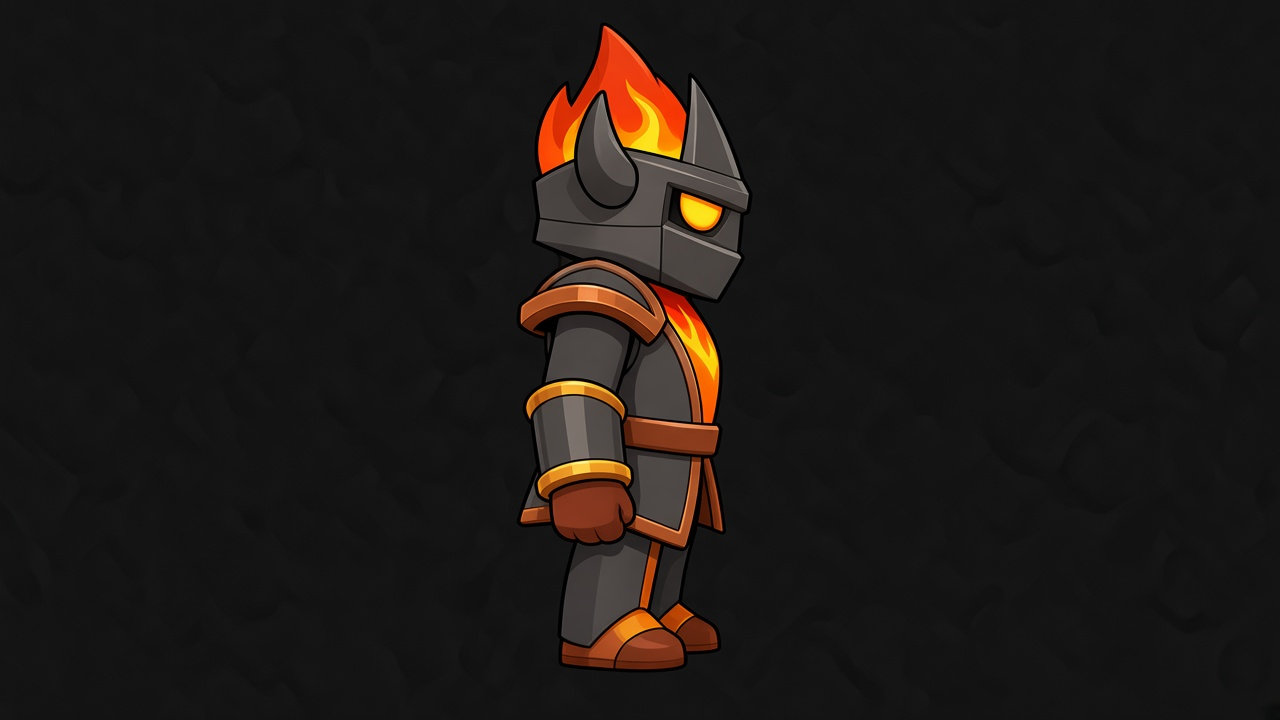
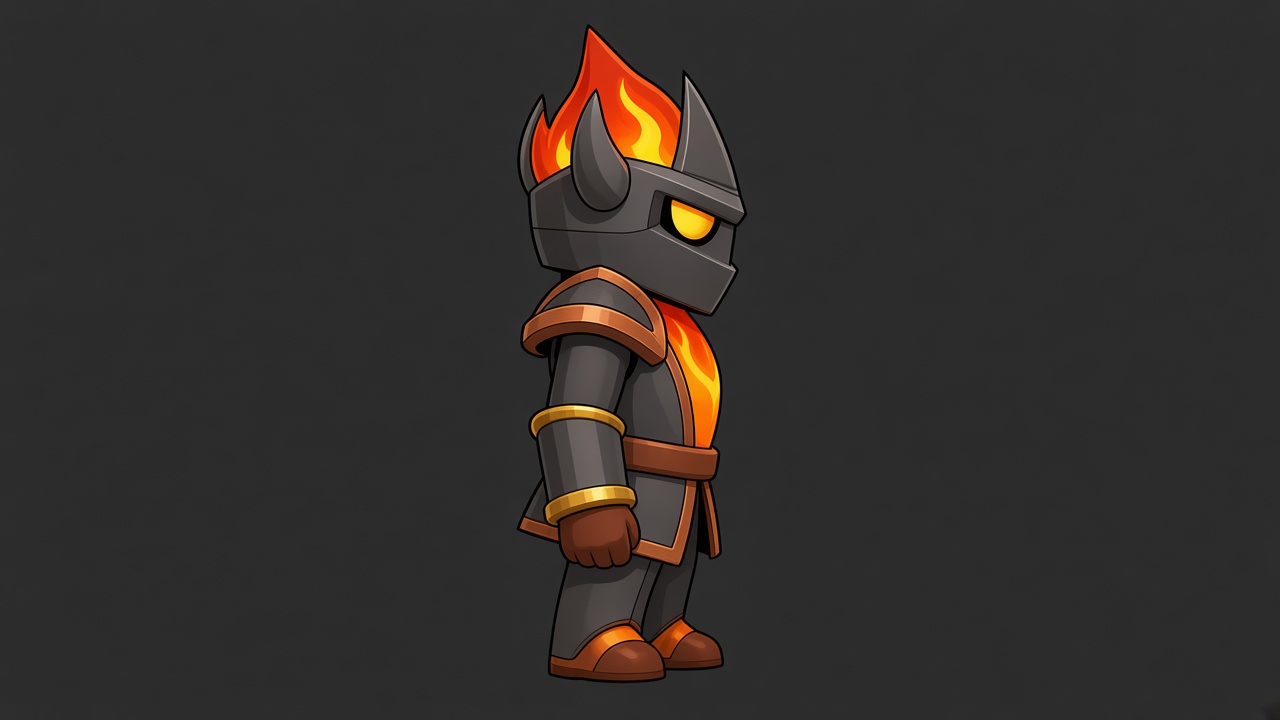
Lava Knight 2D v2: better sprites, run cycle, snappier controls

diff --git a/lava2d.html b/lava2d.html
@@ -2,49 +2,53 @@
 <html lang="en">
 <head>
 <meta charset="utf-8"/>
-<meta name="viewport" content="width=device-width,initial-scale=1,maximum-scale=1,user-scalable=no"/>
+<meta name="viewport" content="width=device-width,initial-scale=1,maximum-scale=1,user-scalable=no,viewport-fit=cover"/>
 <title>Lava Knight 2D</title>
 <style>
-  html,body{margin:0;height:100%;background:#0b0c10;color:#f2efe8;font-family:system-ui,-apple-system,sans-serif;overflow:hidden;touch-action:none}
-  #wrap{display:flex;flex-direction:column;height:100%}
-  header{padding:10px 12px;display:flex;justify-content:space-between;align-items:center;gap:8px;flex-wrap:wrap}
-  h1{margin:0;font-size:1rem}
-  .hint{color:#9aa3b2;font-size:.8rem}
-  canvas{display:block;width:100%;flex:1;background:linear-gradient(#1a2233,#0b0c10);touch-action:none}
-  #pad{display:grid;grid-template-columns:1fr 1fr 1fr;gap:8px;padding:10px 12px 16px;max-width:520px;margin:0 auto;width:100%}
-  button{appearance:none;border:1px solid #3a4558;background:#1c2433;color:#fff;border-radius:14px;padding:16px 10px;font:inherit;font-weight:650}
-  button:active{background:#2a3548}
-  #atk{background:#7c2d12;border-color:#fb923c}
+  html,body{margin:0;height:100%;background:#07080c;color:#f4f0e8;font-family:system-ui,-apple-system,sans-serif;overflow:hidden;touch-action:none;-webkit-user-select:none;user-select:none}
+  #wrap{display:flex;flex-direction:column;height:100%;height:100dvh}
+  header{padding:10px 14px 6px;display:flex;justify-content:space-between;align-items:baseline;gap:8px;flex-wrap:wrap}
+  h1{margin:0;font-size:1.05rem;font-weight:750}
+  .hint{color:#8b93a7;font-size:.78rem}
+  canvas{display:block;width:100%;flex:1;min-height:180px;touch-action:none;background:#0c1018}
+  #pad{display:grid;grid-template-columns:1fr 1.1fr 1fr;gap:10px;padding:10px 14px calc(14px + env(safe-area-inset-bottom));max-width:480px;margin:0 auto;width:100%}
+  button{appearance:none;border:1px solid #3a455c;background:#171e2b;color:#fff;border-radius:16px;padding:18px 8px;font:inherit;font-weight:700;font-size:1rem}
+  button:active{background:#2a3548;transform:scale(.98)}
+  #atk{grid-column:1/-1;background:#7c2d12;border-color:#fb923c;padding:20px}
 </style>
 </head>
 <body>
 <div id="wrap">
   <header>
     <h1>Lava Knight</h1>
-    <div class="hint">← → run · ↑ / Space jump · Z / Attack</div>
+    <div class="hint">← → · Jump · Attack</div>
   </header>
   <canvas id="c"></canvas>
   <div id="pad">
     <button type="button" id="left">◀</button>
     <button type="button" id="jump">Jump</button>
     <button type="button" id="right">▶</button>
-    <button type="button" id="atk" style="grid-column:1/-1">Attack</button>
+    <button type="button" id="atk">Attack 🔥</button>
   </div>
 </div>
 <script>
 const canvas=document.getElementById("c");
 const ctx=canvas.getContext("2d");
-const imgs={idle:new Image(),run:new Image(),jump:new Image(),attack:new Image()};
-imgs.idle.src="lava2d/idle.png?v=1";
-imgs.run.src="lava2d/run.png?v=1";
-imgs.jump.src="lava2d/jump.png?v=1";
-imgs.attack.src="lava2d/attack.png?v=1";
+const v="?v=2";
+const imgs={
+  idle:load("lava2d/idle.png"+v),
+  run1:load("lava2d/run1.png"+v),
+  run2:load("lava2d/run2.png"+v),
+  jump:load("lava2d/jump.png"+v),
+  attack:load("lava2d/attack.png"+v),
+};
+function load(src){const i=new Image(); i.src=src; return i;}
 
 const keys={};
-const state={
-  x:120,y:0,vx:0,vy:0,facing:1,
-  onGround:false,attackT:0,anim:0,
-  groundY:0,w:0,h:0
+const P={
+  x:140,y:0,vx:0,vy:0,facing:1,
+  onGround:false,coyote:0,jumpBuf:0,
+  attackT:0,anim:0,w:0,h:0,groundY:0,spawned:false
 };
 
 function resize(){
@@ -53,102 +57,110 @@ function resize(){
   canvas.width=Math.floor(r.width*dpr);
   canvas.height=Math.floor(r.height*dpr);
   ctx.setTransform(dpr,0,0,dpr,0,0);
-  state.w=r.width; state.h=r.height;
-  state.groundY=r.height-90;
-  if(!state._spawned){ state.y=state.groundY-140; state._spawned=true; }
+  P.w=r.width; P.h=r.height;
+  P.groundY=r.height-78;
+  if(!P.spawned){ P.y=P.groundY-155; P.spawned=true; }
 }
 addEventListener("resize",resize); resize();
 
-function bindHold(el,code){
+function hold(el,code){
   const down=e=>{e.preventDefault(); keys[code]=true;};
   const up=e=>{e.preventDefault(); keys[code]=false;};
   el.addEventListener("pointerdown",down);
-  el.addEventListener("pointerup",up);
-  el.addEventListener("pointerleave",up);
-  el.addEventListener("pointercancel",up);
+  ["pointerup","pointerleave","pointercancel"].forEach(t=>el.addEventListener(t,up));
 }
-bindHold(document.getElementById("left"),"ArrowLeft");
-bindHold(document.getElementById("right"),"ArrowRight");
-document.getElementById("jump").addEventListener("pointerdown",e=>{e.preventDefault(); keys.JumpPulse=true;});
-document.getElementById("atk").addEventListener("pointerdown",e=>{e.preventDefault(); keys.AtkPulse=true;});
+hold(document.getElementById("left"),"Left");
+hold(document.getElementById("right"),"Right");
+document.getElementById("jump").addEventListener("pointerdown",e=>{e.preventDefault(); P.jumpBuf=0.14;});
+document.getElementById("atk").addEventListener("pointerdown",e=>{e.preventDefault(); keys.Atk=true;});
 
 addEventListener("keydown",e=>{
-  keys[e.code]=true;
-  if(["ArrowLeft","ArrowRight","ArrowUp","Space","KeyZ"].includes(e.code)) e.preventDefault();
-  if(e.code==="ArrowUp"||e.code==="Space") keys.JumpPulse=true;
-  if(e.code==="KeyZ") keys.AtkPulse=true;
+  if(["ArrowLeft","KeyA"].includes(e.code)){ keys.Left=true; e.preventDefault(); }
+  if(["ArrowRight","KeyD"].includes(e.code)){ keys.Right=true; e.preventDefault(); }
+  if(["ArrowUp","Space","KeyW"].includes(e.code)){ P.jumpBuf=0.14; e.preventDefault(); }
+  if(e.code==="KeyZ"||e.code==="KeyJ"){ keys.Atk=true; e.preventDefault(); }
 });
-addEventListener("keyup",e=>{ keys[e.code]=false; });
+addEventListener("keyup",e=>{
+  if(["ArrowLeft","KeyA"].includes(e.code)) keys.Left=false;
+  if(["ArrowRight","KeyD"].includes(e.code)) keys.Right=false;
+});
 
 let last=performance.now();
-function frame(now){
+function tick(now){
   const dt=Math.min(0.033,(now-last)/1000); last=now;
-  const left=keys.ArrowLeft||keys.KeyA;
-  const right=keys.ArrowRight||keys.KeyD;
-  const speed=280;
-  if(state.attackT<=0){
-    state.vx=0;
-    if(left){ state.vx=-speed; state.facing=-1; }
-    if(right){ state.vx=speed; state.facing=1; }
-  }
-  if(keys.JumpPulse){
-    keys.JumpPulse=false;
-    if(state.onGround && state.attackT<=0){ state.vy=-520; state.onGround=false; }
-  }
-  if(keys.AtkPulse){
-    keys.AtkPulse=false;
-    if(state.attackT<=0) state.attackT=0.35;
-  }
-  if(state.attackT>0) state.attackT-=dt;
+  const speed=310, accel=2200, fric=1800, grav=2100, jumpV=-560;
 
-  state.vy+=1600*dt;
-  state.x+=state.vx*dt;
-  state.y+=state.vy*dt;
-  const foot=state.groundY-10;
-  const spriteH=150;
-  if(state.y+spriteH>=foot){ state.y=foot-spriteH; state.vy=0; state.onGround=true; }
-  else state.onGround=false;
-  state.x=Math.max(40, Math.min(state.w-40, state.x));
-  state.anim+=dt;
+  if(P.attackT<=0){
+    if(keys.Left){ P.vx=Math.max(P.vx-accel*dt,-speed); P.facing=-1; }
+    else if(keys.Right){ P.vx=Math.min(P.vx+accel*dt,speed); P.facing=1; }
+    else {
+      if(P.vx>0) P.vx=Math.max(0,P.vx-fric*dt);
+      if(P.vx<0) P.vx=Math.min(0,P.vx+fric*dt);
+    }
+  } else P.vx*=0.85;
 
-  // draw world
-  ctx.clearRect(0,0,state.w,state.h);
+  if(P.onGround) P.coyote=0.1; else P.coyote=Math.max(0,P.coyote-dt);
+  P.jumpBuf=Math.max(0,P.jumpBuf-dt);
+  if(P.jumpBuf>0 && P.coyote>0 && P.attackT<=0){
+    P.vy=jumpV; P.onGround=false; P.coyote=0; P.jumpBuf=0;
+  }
+
+  if(keys.Atk){ keys.Atk=false; if(P.attackT<=0) P.attackT=0.38; }
+  if(P.attackT>0) P.attackT-=dt;
+
+  P.vy+=grav*dt;
+  P.x+=P.vx*dt; P.y+=P.vy*dt;
+
+  const spriteH=155;
+  const floor=P.groundY-8;
+  if(P.y+spriteH>=floor){ P.y=floor-spriteH; P.vy=0; P.onGround=true; }
+  else P.onGround=false;
+  P.x=Math.max(50,Math.min(P.w-50,P.x));
+  P.anim+=dt*(1+Math.abs(P.vx)/speed);
+
+  // sky
+  const g=ctx.createLinearGradient(0,0,0,P.h);
+  g.addColorStop(0,"#152033"); g.addColorStop(1,"#0a0c12");
+  ctx.fillStyle=g; ctx.fillRect(0,0,P.w,P.h);
+  // distant hills
+  ctx.fillStyle="#121820";
+  ctx.beginPath(); ctx.moveTo(0,P.groundY-40);
+  for(let x=0;x<=P.w;x+=60) ctx.quadraticCurveTo(x+30,P.groundY-55-Math.sin(x*0.02)*12,x+60,P.groundY-40);
+  ctx.lineTo(P.w,P.h); ctx.lineTo(0,P.h); ctx.fill();
   // ground
-  ctx.fillStyle="#2a1f14";
-  ctx.fillRect(0,state.groundY,state.w,state.h-state.groundY);
-  ctx.fillStyle="#3d2a1a";
-  for(let i=0;i<state.w;i+=40) ctx.fillRect(i,state.groundY,20,8);
-  // soft platform glow
-  ctx.fillStyle="rgba(251,146,60,0.08)";
-  ctx.fillRect(0,state.groundY-6,state.w,6);
+  ctx.fillStyle="#2a1c12"; ctx.fillRect(0,P.groundY,P.w,P.h-P.groundY);
+  ctx.fillStyle="#3b2818";
+  for(let x=0;x<P.w;x+=36) ctx.fillRect(x,P.groundY,18,7);
+  ctx.fillStyle="rgba(251,146,60,0.12)"; ctx.fillRect(0,P.groundY-5,P.w,5);
 
+  // pick sprite
   let img=imgs.idle;
-  if(state.attackT>0) img=imgs.attack;
-  else if(!state.onGround) img=imgs.jump;
-  else if(Math.abs(state.vx)>10) img=imgs.run;
-  const bob=(state.onGround && Math.abs(state.vx)>10)? Math.sin(state.anim*14)*3 : 0;
+  if(P.attackT>0) img=imgs.attack;
+  else if(!P.onGround) img=imgs.jump;
+  else if(Math.abs(P.vx)>25) img=(Math.floor(P.anim*10)%2===0)?imgs.run1:imgs.run2;
 
-  const drawW=130, drawH=150;
+  const drawW=140, drawH=155;
+  const bob=(P.onGround&&Math.abs(P.vx)>25)?Math.sin(P.anim*16)*2.5:0;
   ctx.save();
-  ctx.translate(state.x, state.y+bob);
-  ctx.scale(state.facing,1);
-  if(img.complete && img.naturalWidth){
-    ctx.drawImage(img, -drawW/2, 0, drawW, drawH);
-  } else {
-    ctx.fillStyle="#444"; ctx.fillRect(-40,20,80,100);
-  }
-  // attack flash
-  if(state.attackT>0.15){
-    ctx.fillStyle="rgba(251,146,60,0.35)";
-    ctx.beginPath();
-    ctx.arc(55,70,28,0,Math.PI*2);
-    ctx.fill();
+  ctx.translate(P.x, P.y+bob);
+  // flip: run1 may face left in art — normalize so facing 1 = right
+  let flip=P.facing;
+  // if using run1 which faces left in some gens, invert when that frame
+  if(img===imgs.run1) flip*=-1;
+  ctx.scale(flip,1);
+  if(img.complete&&img.naturalWidth) ctx.drawImage(img,-drawW/2,0,drawW,drawH);
+  else { ctx.fillStyle="#555"; ctx.fillRect(-40,30,80,100); }
+  if(P.attackT>0.18){
+    ctx.globalAlpha=0.45;
+    ctx.fillStyle="#fb923c";
+    ctx.beginPath(); ctx.ellipse(58,72,34,22,0,0,Math.PI*2); ctx.fill();
+    ctx.globalAlpha=1;
   }
   ctx.restore();
 
-  requestAnimationFrame(frame);
+  requestAnimationFrame(tick);
 }
-requestAnimationFrame(frame);
+requestAnimationFrame(tick);
 </script>
 </body>
 </html>
